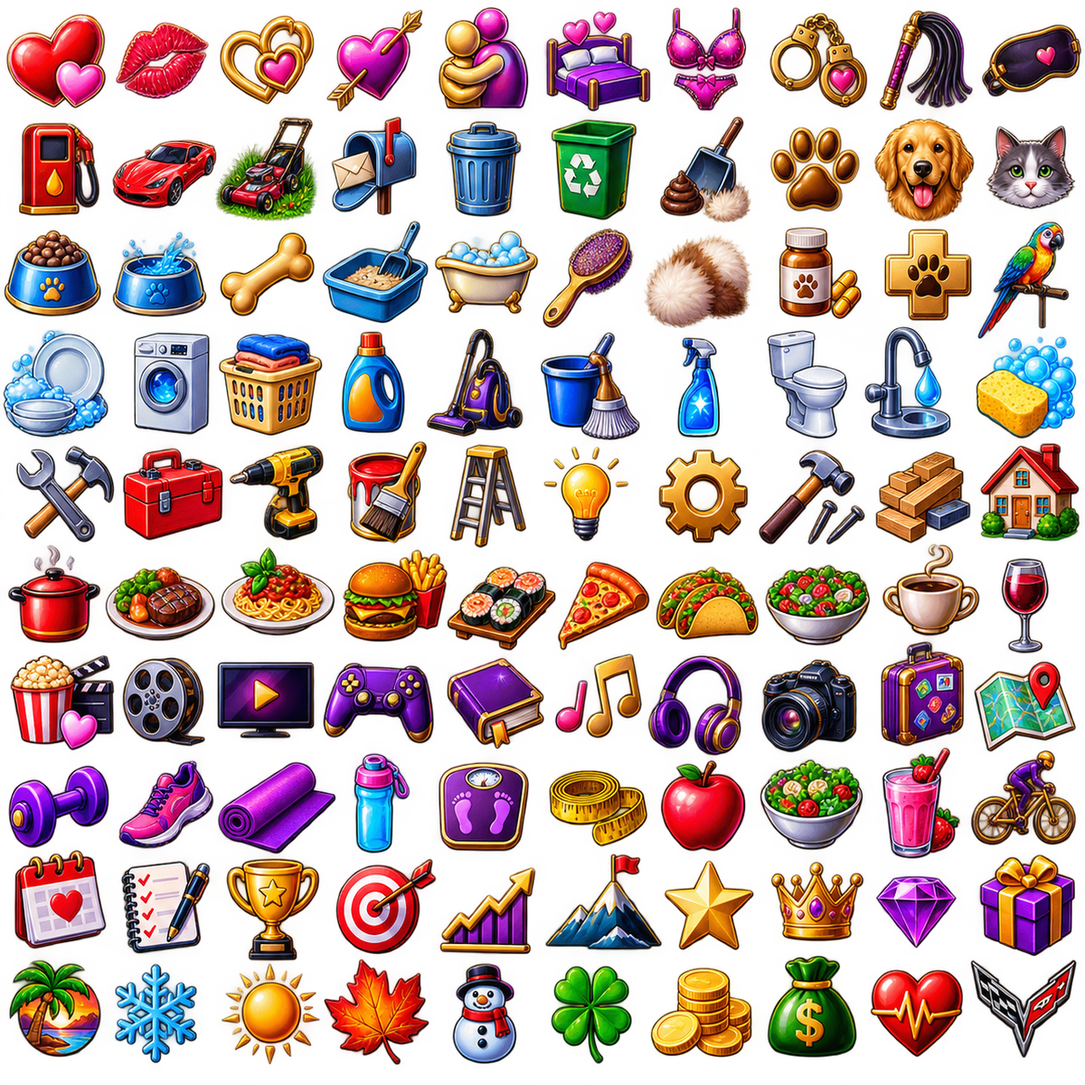
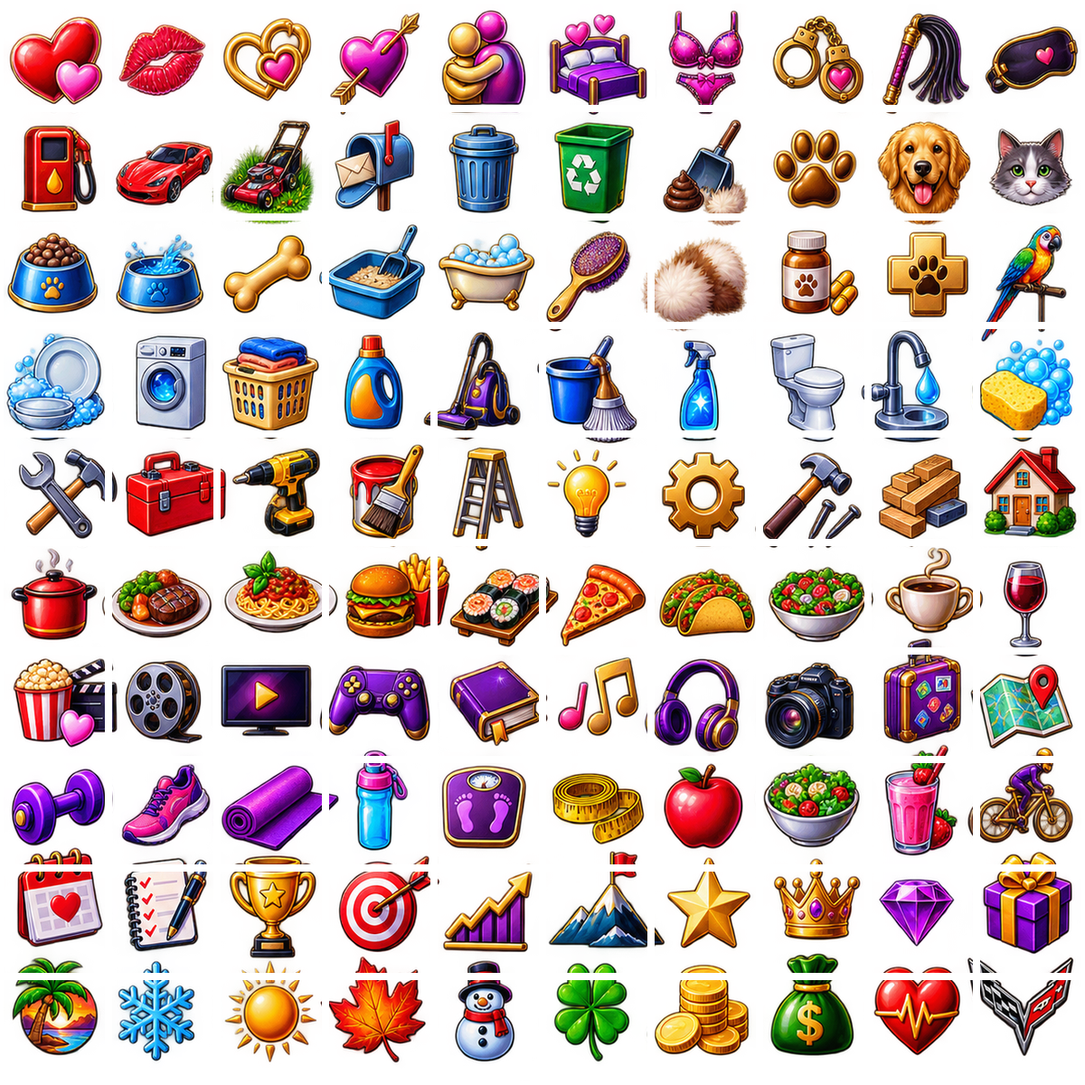
Add files via upload

diff --git a/index.html b/index.html
@@ -5,6 +5,15 @@
 .photoGallery{display:flex;gap:10px;flex-wrap:wrap;margin:10px 0}.proofImg{width:112px;height:112px;object-fit:cover;border-radius:10px;border:1px solid var(--line);background:#241a3b;cursor:zoom-in}.taskArt{height:34px;width:34px;object-fit:cover;border-radius:8px}.photoGallery img:active{transform:scale(1.04)}.modal{max-height:92vh;overflow-y:auto}.photoGallery img{max-width:100%}
 
 .atlas-grid{display:grid;grid-template-columns:repeat(10,minmax(0,1fr));gap:3px;width:100%;max-width:670px}.atlas-cell{position:relative;aspect-ratio:1;background:transparent;border:1px solid #74578b;border-radius:4px;padding:0;overflow:hidden}.atlas-cell:hover{border:2px solid #f5c77d;filter:brightness(1.13)}.atlas-cell.chosen{outline:3px solid #f5c77d;outline-offset:0;box-shadow:0 0 15px #f5c77d80}.atlas-icon{display:block;aspect-ratio:1;background-repeat:no-repeat;background-size:1000% 1000%;background-position:var(--ax) var(--ay);width:100%;height:100%}.atlas-preview{width:70px;height:70px;border-radius:12px;overflow:hidden;background:#34254b}.atlas-panel{margin:12px 0}.task.is-done{filter:grayscale(1);opacity:.52!important}.task.is-done .taskIcon{filter:grayscale(1)}.bonus-strip{border:1px solid #8d6b35;background:#33253b;border-radius:12px;padding:13px;margin:12px 0}.weight-progress{font-size:12px;color:var(--muted);margin-top:8px}.atlas-pick-modal .modal{width:min(800px,100%)}
+</style><style>
+.atlas-grid{gap:0!important;max-width:700px!important;border:1px solid #6c5187;border-radius:8px;overflow:hidden}
+.atlas-cell{border:1px solid #655079!important;border-radius:0!important;min-width:0!important;overflow:hidden!important;box-sizing:border-box!important}
+.atlas-icon{width:100%!important;height:100%!important;position:absolute!important;inset:0!important;aspect-ratio:auto!important;background-size:1000% 1000%!important}
+.atlas-cell.chosen{z-index:2;outline:3px solid #f5c77d!important;outline-offset:-3px!important}
+.icon-live-preview{width:62px;height:62px;border:1px solid #9d75ba;border-radius:10px;background:#302143;display:flex;align-items:center;justify-content:center;overflow:hidden;font-size:30px}
+.icon-live-preview .atlas-icon{position:relative!important;inset:auto!important;width:100%!important;height:100%!important}
+.goal-milestone{padding:10px;border:1px solid #5a4470;border-radius:10px;margin-top:9px}
+.back-nav{margin-bottom:12px}
 </style></head><body><div id="root"></div><script>
 'use strict';
 const KEY='ourquest-stage1-data-v1';const today=()=>localDate(new Date());const localDate=d=>[d.getFullYear(),String(d.getMonth()+1).padStart(2,'0'),String(d.getDate()).padStart(2,'0')].join('-');const uid=()=>Math.random().toString(36).slice(2,10)+Date.now().toString(36);const safe=s=>String(s??'').replace(/[&<>"']/g,c=>({'&':'&amp;','<':'&lt;','>':'&gt;','"':'&quot;',"'":'&#39;'}[c]));const num=x=>Number(x||0).toLocaleString();const seed=()=>({players:[{id:'matthew',name:'Matthew',icon:'🛡',xp:0,coins:0},{id:'beth',name:'Beth',icon:'✨',xp:0,coins:0}],current:'matthew',tasks:[{id:uid(),name:'Tidy the kitchen',emoji:'🧹',category:'Home',xp:25,difficulty:'Easy',repeat:true,frequency:'daily',maxPerPeriod:1,owner:'shared'},{id:uid(),name:'Take a walk',emoji:'🌿',category:'Wellness',xp:35,difficulty:'Normal',repeat:true,frequency:'daily',maxPerPeriod:1,owner:'shared'},{id:uid(),name:'Plan a date night',emoji:'💖',category:'Together',xp:60,difficulty:'Hard',repeat:false,frequency:'once',maxPerPeriod:1,owner:'shared'}],logs:[],quests:[],categories:[{name:'Home',emoji:'🏠',frequency:'daily'},{name:'Wellness',emoji:'🌿',frequency:'daily'},{name:'Together',emoji:'💖',frequency:'monthly'}],ledger:[],champions:[],achievements:[],rewards:[{id:uid(),name:'Choose our next movie',emoji:'🎬',price:60,provider:'either',description:'You pick what we watch.'},{id:uid(),name:'Coffee treat',emoji:'☕',price:100,provider:'either',description:'A special coffee run.'},{id:uid(),name:'Dinner at Olive Garden',emoji:'🍝',price:1000,provider:'matthew',description:'Dinner at Olive Garden, subject to provider approval and scheduling.'}],purchases:[],messages:[],goals:[],settings:{coinRate:10,xpCap:500,backdate:7,dailyBonusXP:50,dailyBonusCoins:25,weeklyBonusXP:125,monthlyBonusXP:400,reduceMotion:false},events:[]});let data;try{data=JSON.parse(localStorage.getItem(KEY))||seed()}catch{data=seed()}const save=()=>localStorage.setItem(KEY,JSON.stringify(data));function migrate(){data.settings??={coinRate:10,xpCap:500,backdate:7};data.categories??=[{name:'Home',emoji:'🏠',frequency:'daily'},{name:'Wellness',emoji:'🌿',frequency:'daily'},{name:'Together',emoji:'💖',frequency:'monthly'}];data.ledger??=[];data.champions??=[];data.achievements??=[];data.settings.dailyBonusXP??=50;data.settings.dailyBonusCoins??=25;data.settings.weeklyBonusXP??=125;data.settings.monthlyBonusXP??=400;data.tasks.forEach(t=>{t.frequency??=(t.repeat?'daily':'once');t.maxPerPeriod??=1});data.quests.forEach(q=>{q.maxPerDay??=1;q.completedCount??=(q.status==='approved'?1:0);q.awarded??=(q.status==='approved');q.history??=[]});data.purchases.forEach(p=>{if(p.status==='used')p.status='fulfilled';p.history??=[]});if(!data.rewards.some(r=>r.name==='Dinner at Olive Garden'))data.rewards.push({id:uid(),name:'Dinner at Olive Garden',emoji:'🍝',price:1000,provider:'matthew',description:'Dinner at Olive Garden, subject to provider approval and scheduling.'});}migrate();save();let page='home',filter='All',modal='',toastTimer;const me=()=>data.players.find(p=>p.id===data.current);const other=()=>data.players.find(p=>p.id!==data.current);const totalXp=p=>p.xp;const level=p=>Math.floor(Math.sqrt(p.xp/100))+1;const levelBase=n=>100*(n-1)**2;const levelNext=p=>levelBase(level(p)+1);const levelPercent=p=>Math.max(0,Math.min(100,100*(p.xp-levelBase(level(p)))/(levelNext(p)-levelBase(level(p)))));const event=(type,detail)=>data.events.unshift({id:uid(),type,detail,actor:me().name,at:new Date().toISOString()});const notify=s=>{document.querySelector('.toast')?.remove();let n=document.createElement('div');n.className='toast';n.textContent=s;document.body.appendChild(n);clearTimeout(toastTimer);toastTimer=setTimeout(()=>n.remove(),3000)};const isAdmin=()=>data.current==='matthew';
@@ -22,7 +31,7 @@ const dailyXP=(player,date)=>data.ledger.filter(t=>t.player===player&&t.kind==='
 function periodKey(date,kind){return datePeriod(date,kind)}
 function settleChampions(){let now=new Date();for(let offset=1;offset<=35;offset++){let d=new Date(now);d.setDate(d.getDate()-offset);let date=localDate(d);for(let kind of ['daily','weekly','monthly']){if(kind==='weekly'&&d.getDay()!==0)continue;if(kind==='monthly'&&new Date(d.getFullYear(),d.getMonth()+1,0).getDate()!==d.getDate())continue;let key=periodKey(date,kind);if(data.champions.some(c=>c.kind===kind&&c.key===key))continue;let from=kind==='daily'?date:kind==='weekly'?periodKey(date,'weekly'):date.slice(0,7)+'-01';let scores=data.players.map(p=>({id:p.id,xp:data.ledger.filter(t=>t.player===p.id&&t.kind==='xp'&&t.amount>0&&t.source!=='champion'&&t.at.slice(0,10)>=from&&t.at.slice(0,10)<=date).reduce((a,t)=>a+t.amount,0)}));let max=Math.max(...scores.map(x=>x.xp));let winners=max>0?scores.filter(x=>x.xp===max).map(x=>x.id):[];data.champions.push({id:uid(),kind,key,date,winners,scores});if(winners.length){let bonus=Number(data.settings[kind+'BonusXP']||0),coins=kind==='daily'?Number(data.settings.dailyBonusCoins||0):0;winners.forEach(id=>{if(bonus)credit(id,bonus,'champion',kind+' winner '+key);if(coins){data.players.find(p=>p.id===id).coins+=coins;transaction(id,'gold',coins,'champion',kind+' winner '+key)}})}}}save()}
 function award(xp){credit(data.current,xp,'task','Task completion')}
-function nav(to){page=to;filter='All';render();window.scrollTo(0,0)}function taskVisible(t){return t.owner==='shared'||t.owner===data.current}function render(){const titles={home:'Your Adventure',tasks:'Quest Journal',quests:'Quest Board',rewards:'Treasure Shop',messages:'Messages',stats:'Adventure Chronicle',goals:'Long-Term Goals',settings:'Settings & Admin',approvals:'Approval Inbox',more:'More Adventures',requests:'XP Requests',photos:'Photo Library',atlas:'Icon Atlas Library'};const tabs=[['home','⌂','Home'],['tasks','✓','Tasks'],['quests','⚔','Quests'],['rewards','♛','Rewards'],['messages','✉','Messages'],['stats','◫','Stats'],['goals','◈','Goals'],['approvals','✓','Approvals'],['settings','⚙','Settings']];document.getElementById('root').innerHTML=`<div class="app"><aside class="side"><div class="brand"><img src="assets/our-quest-icon.png"><div><b>Our Quest</b><small>A SHARED ADVENTURE</small></div></div><nav class="nav">${tabs.map(t=>`<button class="${page===t[0]?'active':''}" onclick="nav('${t[0]}')"><span>${t[1]}</span>${t[2]}</button>`).join('')}</nav><div class="sidefoot">✦ V1.3.0 local preview<br>Local demonstration mode<br><br>Data is saved on this device only. Cloud syncing is not connected.</div></aside><main><header class="top"><div><div class="eyebrow">✧ OUR QUEST · ${safe(new Date().toLocaleDateString('en-US',{month:'long',day:'numeric',year:'numeric'}))}</div><h1>${titles[page]||'Our Quest'}</h1></div><div class="topright"><span class="chip">🪙 ${num(me().coins)}</span><select class="selectSmall" aria-label="Active demo profile" onchange="switchPlayer(this.value)">${data.players.map(p=>`<option value="${p.id}" ${p.id===data.current?'selected':''}>${p.icon} ${safe(p.name)}</option>`).join('')}</select></div></header><div class="notice">Preview mode: Switching players simulates two accounts on this browser. It is not secure authentication or cross-phone synchronization.</div>${({home:homeView,tasks:tasksView,quests:questsView,rewards:rewardsView,messages:messagesView,stats:statsView,goals:goalsView,settings:settingsView,approvals:approvalsView,more:moreView,requests:requestXPView,photos:photosView,atlas:atlasView}[page]||homeView)()}</main><nav class="bottom">${[['home','⌂','Home'],['tasks','✓','Tasks'],['quests','⚔','Quests'],['rewards','♛','Shop'],['more','☷','More']].map(t=>`<button class="${page===t[0]?'active':''}" onclick="nav('${t[0]}')"><span>${t[1]}</span>${t[2]}</button>`).join('')}</nav></div>${modal?modalView():''}`}
+function nav(to){page=to;filter='All';render();window.scrollTo(0,0)}function taskVisible(t){return t.owner==='shared'||t.owner===data.current}function render(){const titles={home:'Your Adventure',tasks:'Quest Journal',quests:'Quest Board',rewards:'Treasure Shop',messages:'Messages',stats:'Adventure Chronicle',goals:'Long-Term Goals',settings:'Settings & Admin',approvals:'Approval Inbox',more:'More Adventures',requests:'XP Requests',photos:'Photo Library',atlas:'Icon Atlas Library'};const tabs=[['home','⌂','Home'],['tasks','✓','Tasks'],['quests','⚔','Quests'],['rewards','♛','Rewards'],['messages','✉','Messages'],['stats','◫','Stats'],['goals','◈','Goals'],['approvals','✓','Approvals'],['settings','⚙','Settings']];document.getElementById('root').innerHTML=`<div class="app"><aside class="side"><div class="brand"><img src="assets/our-quest-icon.png"><div><b>Our Quest</b><small>A SHARED ADVENTURE</small></div></div><nav class="nav">${tabs.map(t=>`<button class="${page===t[0]?'active':''}" onclick="nav('${t[0]}')"><span>${t[1]}</span>${t[2]}</button>`).join('')}</nav><div class="sidefoot">✦ V1.4.0 local preview<br>Local demonstration mode<br><br>Data is saved on this device only. Cloud syncing is not connected.</div></aside><main><header class="top"><div><div class="eyebrow">✧ OUR QUEST · ${safe(new Date().toLocaleDateString('en-US',{month:'long',day:'numeric',year:'numeric'}))}</div><h1>${titles[page]||'Our Quest'}</h1></div><div class="topright"><span class="chip">🪙 ${num(me().coins)}</span><select class="selectSmall" aria-label="Active demo profile" onchange="switchPlayer(this.value)">${data.players.map(p=>`<option value="${p.id}" ${p.id===data.current?'selected':''}>${p.icon} ${safe(p.name)}</option>`).join('')}</select></div></header><div class="notice">Preview mode: Switching players simulates two accounts on this browser. It is not secure authentication or cross-phone synchronization.</div>${({home:homeView,tasks:tasksView,quests:questsView,rewards:rewardsView,messages:messagesView,stats:statsView,goals:goalsView,settings:settingsView,approvals:approvalsView,more:moreView,requests:requestXPView,photos:photosView,atlas:atlasView}[page]||homeView)()}</main><nav class="bottom">${[['home','⌂','Home'],['tasks','✓','Tasks'],['quests','⚔','Quests'],['rewards','♛','Shop'],['more','☷','More']].map(t=>`<button class="${page===t[0]?'active':''}" onclick="nav('${t[0]}')"><span>${t[1]}</span>${t[2]}</button>`).join('')}</nav></div>${modal?modalView():''}`}
 function homeView(){const p=me(),logs=data.logs.filter(l=>l.player===p.id&&l.date===today()&&!l.undone);return `<div class="hero"><div class="card heroMain"><div class="eyebrow">WELCOME BACK, ${safe(p.name.toUpperCase())}</div><div class="heroTitle">Level ${level(p)} ${rankName(level(p))}</div><div class="heroSub">Every little victory is part of your story. Your next chapter starts today.</div><div class="row between" style="margin-top:20px"><span class="tiny">✦ ${num(p.xp)} XP</span><span class="tiny">${num(levelNext(p)-p.xp)} to next level</span></div><div class="bar"><i style="width:${levelPercent(p)}%"></i></div><button class="btn" style="margin-top:14px" onclick="nav('tasks')">✦ Log an Activity</button></div><div class="heroAside"><div class="card"><div class="statLabel">Today's completions</div><div class="stat">${logs.length}</div><span class="green tiny">✦ +${num(logs.reduce((s,l)=>s+l.xp,0))} XP today</span></div><div class="card"><div class="statLabel">Gold coins</div><div class="stat">${num(p.coins)}</div><span class="muted tiny">Spend in Treasure Shop</span></div><div class="card"><div class="statLabel">Active quests</div><div class="stat">${data.quests.filter(q=>q.to===p.id&&q.status==='accepted').length}</div><span class="muted tiny">Adventures awaiting you</span></div><div class="card"><div class="statLabel">Partner's level</div><div class="stat">${level(other())}</div><span class="muted tiny">${safe(other().name)} · ${num(other().xp)} XP</span></div></div></div><div class="grid two"><section class="card"><div class="row between"><h2>✧ Quick Log</h2><button class="btn2 tiny" onclick="nav('tasks')">All Tasks →</button></div>${data.tasks.filter(taskVisible).slice(0,5).map(taskLine).join('')||'<div class="empty">Create your first task.</div>'}</section><section class="card"><div class="row between"><h2>⚔ Your Quest Board</h2><button class="btn2 tiny" onclick="nav('quests')">View Quests →</button></div>${data.quests.filter(q=>q.to===p.id&&q.status!=='approved'&&q.status!=='declined').slice(0,4).map(questLine).join('')||'<div class="empty">No quests yet. Send your partner an adventure!</div>'}<hr class="divider"><h3>✉ Latest Message</h3><p class="muted tiny">${data.messages.length?safe(data.messages.at(-1).text):'Your shared story is waiting to be written.'}</p></section></div><section class="section card"><div class="row between"><h2>Recent Achievements</h2><button class="btn2 tiny" onclick="nav('stats')">View History →</button></div><div class="grid">${[['🌟','First Steps',p.xp>0],['⚔','Getting Started',data.logs.filter(l=>l.player===p.id).length>=5],['👑','Rising Hero',level(p)>=3]].map(([i,n,ok])=>`<div class="card" style="text-align:center;opacity:${ok?1:.45}"><div style="font-size:31px">${i}</div><b>${n}</b><div class="tiny muted">${ok?'Unlocked':'Locked'}</div></div>`).join('')}</div></section>`}
 function taskLine(t){let count=countTask(t),max=maxTask(t),done=count>=max,available=taskAvailable(t);return `<div class="task" style="opacity:${done||!available?'.55':'1'}"><div class="taskIcon">${t.emoji?.startsWith('data:')?`<img src="${t.emoji}">`:safe(t.emoji||'✨')}</div><div style="flex:1;min-width:0"><div class="taskName">${safe(t.name)}</div><div class="tiny muted">${safe(t.category)} · ${safe(t.frequency||'daily')} · <span class="gold">+${t.xp} XP</span> · ${count}/${max} completed</div>${done?'<span class="tag">✓ Complete until next reset</span>':!available?'<span class="tag">Outside availability window</span>':''}</div><button class="iconbtn" onclick="logTask('${t.id}')" ${done||!available?'disabled':''}>${done?'✓':'+ XP'}</button></div>`}
 function tasksView(){let cats=['All',...new Set(data.tasks.filter(taskVisible).map(t=>t.category))],list=data.tasks.filter(t=>taskVisible(t)&&(filter==='All'||t.category===filter));return `<div class="row between wrap"><p class="muted">Recurring activities reset by schedule. Completed tasks lock until their next period.</p>${isAdmin()?`<div class="row wrap"><button class="btn2" onclick="openModal('category')">⚙ Categories</button><button class="btn" onclick="openModal('task')">＋ Create Task</button></div>`:''}</div><div class="tabs">${cats.map(c=>`<button class="${filter===c?'active':''}" onclick="setFilter('${safe(c)}')">${safe(c)}</button>`).join('')}</div><section class="card">${list.map(t=>`<div class="row between" style="gap:5px"><div style="flex:1;min-width:0">${taskLine(t)}</div>${isAdmin()?`<button class="iconbtn" title="Edit task" onclick="openModal('editTask','${t.id}')">✎</button>`:''}</div>`).join('')||'<div class="empty">No tasks in this category.</div>'}</section>${isAdmin()?`<div class="card section"><h2>Bulk Task Tools</h2><button class="btn2" onclick="duplicateTaskPrompt()">Duplicate a task</button> <button class="btn2" onclick="bulkSchedule()">Change category schedule</button></div>`:''}`}
@@ -162,7 +171,7 @@ function claimDailyLogin(){let key=data.current+':'+today();if(data.loginClaims.
 const v13HomeView=homeView;
 homeView=function(){let claimed=data.loginClaims.includes(data.current+':'+today());return `<div class="bonus-strip row between wrap"><div><b>✦ Daily Login Reward</b><div class="tiny muted">${claimed?'Claimed today. Return tomorrow for another bonus.':`Claim +${data.settings.loginXP} XP and +${data.settings.loginCoins} gold today.`}</div></div><button class="btn" onclick="claimDailyLogin()" ${claimed?'disabled':''}>${claimed?'✓ Claimed':'Claim Reward'}</button></div>`+v13HomeView()};
 const v13SettingsView=settingsView;
-settingsView=function(){let out=v13SettingsView().replaceAll('About V1.2.0','About V1.3.0');if(isAdmin())out+=`<div class="card section"><h2>Daily Login Reward Settings</h2><div class="formGrid"><div class="field"><label>Daily login XP</label><input id="loginXP" type="number" min="0" max="10000" value="${data.settings.loginXP}"></div><div class="field"><label>Daily login gold</label><input id="loginCoins" type="number" min="0" max="10000" value="${data.settings.loginCoins}"></div></div><button class="btn" onclick="saveLoginSettings()">Save Login Rewards</button></div>`;return out};
+settingsView=function(){let out=v13SettingsView().replaceAll('About V1.2.0','About V1.4.0');if(isAdmin())out+=`<div class="card section"><h2>Daily Login Reward Settings</h2><div class="formGrid"><div class="field"><label>Daily login XP</label><input id="loginXP" type="number" min="0" max="10000" value="${data.settings.loginXP}"></div><div class="field"><label>Daily login gold</label><input id="loginCoins" type="number" min="0" max="10000" value="${data.settings.loginCoins}"></div></div><button class="btn" onclick="saveLoginSettings()">Save Login Rewards</button></div>`;return out};
 function saveLoginSettings(){if(!isAdmin())return;let xp=Number(document.getElementById('loginXP').value),gold=Number(document.getElementById('loginCoins').value);if(!Number.isInteger(xp)||!Number.isInteger(gold)||xp<0||gold<0||xp>10000||gold>10000)return notify('Enter valid bonus values');data.settings.loginXP=xp;data.settings.loginCoins=gold;save();render();notify('Daily login settings saved')}
 // Weight-based goals are optional and explicitly controlled by the goal owner.
 const v13ModalView=modalView;
@@ -177,6 +186,68 @@ function updateWeight(id){let g=data.goals.find(g=>g.id===id);if(!g||g.goalType!
 const v13TasksView=tasksView;
 tasksView=function(){let out=v13TasksView();return isAdmin()?out.replace('⚙ Categories</button>',`⚙ Categories</button><button class="btn2" onclick="nav('atlas')">▦ Icon Atlas</button>`):out};
 loadAtlasPages();save();
+
+/* Our Quest v1.4 enhancement: atlas pages, goals, bonuses, and single-use coupons. */
+const V14_PAGES=[{id:'everyday',name:'Everyday Adventures',src:'assets/everyday-adventures-atlas.png',builtin:true},{id:'more-adventures',name:'More Adventures',src:'assets/more-adventures-atlas.png',builtin:true},{id:'life-adventures',name:'Life & Adventures',src:'assets/life-adventures-atlas.png',builtin:true}];
+for(const p of V14_PAGES){const found=data.atlasPages.find(x=>x.id===p.id);if(found)Object.assign(found,p);else data.atlasPages.push({...p});atlasSources[p.id]=p.src}
+// Initialize independent goals once. Never overwrite an existing player's recorded progress.
+function ensureV14Goals(){for(const [owner,start,target,reward] of [['beth',250,159,'Matthew buys Beth a C7 or C8 Corvette'],['matthew',365,190,'Reach my goal weight']]){
+ if(!data.goals.some(g=>g.goalType==='weight'&&g.owner===owner))data.goals.push({id:uid(),title:(owner==='beth'?'Beth':'Matthew')+' • Weight Journey',description:'Personal weight milestone tracker',goalType:'weight',startWeight:start,currentWeight:start,targetWeight:target,milestoneReward:reward,owner,weightHistory:[{at:new Date().toISOString(),weight:start}],milestones:[{id:uid(),weight:target,reward,completed:false}]});
+ else for(const g of data.goals.filter(g=>g.goalType==='weight'&&g.owner===owner)){g.milestones??=[{id:uid(),weight:g.targetWeight,reward:g.milestoneReward||reward,completed:false}];}
+ }}ensureV14Goals();
+const v14AtlasGrid=atlasGrid;
+atlasGrid=function(id,selectable=true){return v14AtlasGrid(id,selectable).replaceAll('background-size:1000%','background-size:1000%')};
+const v14ModalView=modalView;
+modalView=function(){let [type,id]=modal.split('|'),out=v14ModalView();if(type==='task'||type==='editTask'){
+ out=out.replace(/<div class="field"><label>Allowed completions<\/label>[\s\S]*?<div class="field"><label>Earliest hour/,`<div class="field"><label>Recurrence</label><select name="frequency" onchange="updateTaskScheduleDescription()">${[['daily','Daily'],['weekly','Weekly'],['monthly','Monthly'],['annual','Annual']].map(([v,l])=>`<option value="${v}" ${(data.tasks.find(t=>t.id===id)?.frequency||'daily')===v?'selected':''}>${l}</option>`).join('')}</select><div id="scheduleHelp" class="tiny muted">Calendar-based resets: Sunday to Saturday weeks, calendar months and calendar years.</div></div><div class="field"><label>Maximum completions per period</label><input name="maxPerPeriod" type="number" min="1" max="100" value="${data.tasks.find(t=>t.id===id)?.maxPerPeriod||1}" oninput="updateTaskScheduleDescription()"></div><div class="field"><label>Consecutive-day bonus (%)</label><input name="streakBonusPercent" type="number" min="0" max="200" step="1" value="${data.tasks.find(t=>t.id===id)?.streakBonusPercent||0}"><div class="tiny muted">For daily tasks: bonus XP on each completion when also completed yesterday.</div></div><div class="field"><label>Same-day repeat bonus (%)</label><input name="repeatBonusPercent" type="number" min="0" max="200" step="1" value="${data.tasks.find(t=>t.id===id)?.repeatBonusPercent||0}"><div class="tiny muted">Bonus XP for the second and subsequent completions on the same day.</div></div><div class="field"><label>Earliest hour`);
+ out=out.replace(/<div id="atlasChoicePreview"[^>]*>[\s\S]*?<\/div>/,`<div id="atlasChoicePreview" class="tiny muted" style="margin-top:5px">${pendingAtlas?'Selected atlas icon: page '+(atlasPageIndex(pendingAtlas.page)+1)+', cell '+(pendingAtlas.cell+1):'No atlas icon selected'}</div><div class="row" style="margin-top:8px"><div id="taskIconLivePreview" class="icon-live-preview">${pendingAtlas?atlasIconHtml(pendingAtlas):safe(data.tasks.find(t=>t.id===id)?.emoji||'✨')}</div><span class="tiny muted">Live icon preview</span></div>`);
+ }if(type==='reward')out=out.replace('<div class="field"><label>Provider</label>',`<div class="field"><label><input type="checkbox" name="oneTime" style="width:auto"/> One purchase per player (lifetime)</label><div class="tiny muted">Once purchased, this reward can never be purchased again by that player, even after redemption.</div></div><div class="field"><label>Provider</label>`);
+ return out};
+function updateTaskScheduleDescription(){let f=document.querySelector('.modal select[name=frequency]')?.value,n=Number(document.querySelector('.modal input[name=maxPerPeriod]')?.value||1),help=document.getElementById('scheduleHelp');if(help)help.textContent=`Available ${n} time${n===1?'':'s'} per ${f==='daily'?'calendar day':f==='weekly'?'Sunday–Saturday week':f==='monthly'?'calendar month':'calendar year'}. Resets at the next period boundary.`}
+const v14SelectAtlasIcon=selectAtlasIcon;
+selectAtlasIcon=function(id,cell){v14SelectAtlasIcon(id,cell);let p=document.getElementById('taskIconLivePreview');if(p)p.innerHTML=atlasIconHtml({page:id,cell});};
+const v14SubmitModal=submitModal;
+submitModal=function(e,type,id){if(['task','editTask','reward'].includes(type)){
+ let f=new FormData(e.target),taskName=String(f.get('name')||''),beforeTaskIds=new Set(data.tasks.map(t=>t.id));
+ let freq=f.get('frequency'),max=Number(f.get('maxPerPeriod')||1),streak=Number(f.get('streakBonusPercent')||0),repeat=Number(f.get('repeatBonusPercent')||0);
+ if(['task','editTask'].includes(type)&&(!['daily','weekly','monthly','annual'].includes(freq)||!Number.isInteger(max)||max<1||max>100||![streak,repeat].every(v=>Number.isFinite(v)&&v>=0&&v<=200))){e.preventDefault();return notify('Invalid task schedule or bonus settings')}
+ v14SubmitModal(e,type,id);
+ if(['task','editTask'].includes(type)){let t=type==='editTask'?data.tasks.find(x=>x.id===id):data.tasks.find(x=>!beforeTaskIds.has(x.id)&&x.name===taskName);if(t){t.streakBonusPercent=streak;t.repeatBonusPercent=repeat;save();render()}}
+ if(type==='reward'&&f.has('oneTime')){let r=data.rewards.at(-1);if(r){r.oneTime=true;save();render()}}
+ return;
+ }v14SubmitModal(e,type,id)};
+const v14LogTask=logTask;
+logTask=function(id){let t=data.tasks.find(x=>x.id===id);if(!t)return;let oldCount=countTask(t),oldLogs=new Set(data.logs.map(x=>x.id));let yesterday=new Date();yesterday.setDate(yesterday.getDate()-1);let priorDay=localDate(yesterday);let consecutive=data.logs.some(l=>l.taskId===id&&l.player===data.current&&l.date===priorDay&&!l.undone);let repeatCount=data.logs.filter(l=>l.taskId===id&&l.player===data.current&&l.date===today()&&!l.undone).length;
+ v14LogTask(id);
+ let log=data.logs.find(l=>!oldLogs.has(l.id)&&l.taskId===id&&l.player===data.current);if(!log)return;
+ let streakBonus=t.frequency==='daily'&&consecutive?Math.round(t.xp*Number(t.streakBonusPercent||0)/100):0;
+ let repeatBonus=repeatCount>0?Math.round(t.xp*Number(t.repeatBonusPercent||0)/100):0;
+ let total=streakBonus+repeatBonus;
+ if(total){log.bonusXP=total;credit(data.current,total,'task bonus',t.name+` • streak +${streakBonus}, repeat +${repeatBonus}`);save();render();notify(`+${t.xp} XP plus ${total} bonus XP!`)}
+};
+const v14UndoLog=undoLog;
+undoLog=function(id){let l=data.logs.find(x=>x.id===id),bonus=l?.bonusXP||0,wasUndone=l?.undone;v14UndoLog(id);if(l&&!wasUndone&&l.undone&&bonus){debitXP(l.player,bonus,'undo bonus');save();render()}};
+const v14BuyReward=buyReward;
+buyReward=function(id){let r=data.rewards.find(r=>r.id===id);if(r?.oneTime&&data.purchases.some(p=>p.rewardId===id&&p.buyer===data.current))return notify('This reward can only be purchased once per player');v14BuyReward(id)};
+const v14RewardsView=rewardsView;
+rewardsView=function(){let out=v14RewardsView();for(const r of data.rewards.filter(r=>r.oneTime)){
+ let escaped=r.id.replace(/[.*+?^${}()|[\]\\]/g,'\\$&');let regex=new RegExp(`onclick="buyReward\\('${escaped}'\\)"([^>]*)>`,'g');let purchased=data.purchases.some(p=>p.rewardId===r.id&&p.buyer===data.current);out=out.replace(regex,`onclick="buyReward('${r.id}')" ${purchased?'disabled title="Already purchased"':''}$1>`);
+ }return out};
+// Weight milestones are configured by the goal owner, while progress remains editable by that owner.
+const v14GoalsView=goalsView;
+goalsView=function(){let out=v14GoalsView();for(const g of data.goals.filter(g=>g.goalType==='weight'&&(g.owner===data.current||g.owner==='shared'))){
+ let milestoneList=(g.milestones||[]).slice().sort((a,b)=>b.weight-a.weight).map(m=>`<div class="goal-milestone"><div class="row between"><span>${safe(m.weight)} lb · ${safe(m.reward)}</span><span class="tag">${g.currentWeight<=m.weight?'Reached':'Upcoming'}</span></div>${(g.owner===data.current||isAdmin())?`<button class="btn2 tiny" onclick="editWeightMilestone('${g.id}','${m.id}')">Edit</button>`:''}</div>`).join('');
+ let marker=`<div class="card section"><h2>🏆 ${safe(g.owner==='beth'?'Beth':'Matthew')} • Weight Milestones</h2>${milestoneList||'<p class="muted">No milestones yet.</p>'}<button class="btn2" onclick="addWeightMilestone('${g.id}')">＋ Add milestone & reward</button></div>`;
+ out+=marker;
+ }return out};
+function addWeightMilestone(id){let g=data.goals.find(x=>x.id===id);if(!g||(g.owner!==data.current&&!isAdmin()))return notify('Not permitted to edit this goal');let v=prompt('Milestone weight in pounds (e.g. 225)');if(v===null)return;let w=Number(v);if(!Number.isFinite(w)||w<1||w>g.startWeight)return notify('Invalid milestone weight');let reward=prompt('Reward for reaching '+w+' lb','');if(reward===null)return;g.milestones??=[];g.milestones.push({id:uid(),weight:w,reward:reward.trim(),completed:false});save();render()}
+function editWeightMilestone(id,mid){let g=data.goals.find(x=>x.id===id),m=g?.milestones?.find(x=>x.id===mid);if(!m||(g.owner!==data.current&&!isAdmin()))return;let weight=prompt('Milestone weight',m.weight);if(weight===null)return;let w=Number(weight);if(!Number.isFinite(w)||w<1||w>g.startWeight)return notify('Invalid weight');let reward=prompt('Milestone reward',m.reward);if(reward===null)return;m.weight=w;m.reward=reward.trim();save();render()}
+// Make version visible and add a consistent way back to the overview on all inner screens.
+const v14Render=render;
+render=function(){v14Render();if(page!=='home'){let main=document.querySelector('main'),header=main?.querySelector('.top');if(main&&header)header.insertAdjacentHTML('afterend',`<div class="back-nav"><button class="btn2 tiny" onclick="nav('home')">← Back to Overview</button></div>`)}}
+const v14SettingsView=settingsView;
+settingsView=function(){return v14SettingsView().replaceAll('V1.3.0','V1.4.0')+`<div class="card section"><h2>What's New • V1.4.0</h2><p class="muted tiny">Three built-in 100-icon atlas sheets, improved icon preview, daily/weekly/monthly/annual task frequency, consecutive-day and repeat bonuses, separate weight goals and milestones, one-time coupons and more Back buttons.</p></div>`};
+save();
 
 settleChampions();if('serviceWorker'in navigator&&location.protocol.startsWith('http'))navigator.serviceWorker.register('./sw.js').catch(()=>{});render();
 </script></body></html>

diff --git a/sw.js b/sw.js
@@ -1,4 +1,4 @@
-const CACHE='our-quest-v1-3';
-self.addEventListener('install',event=>event.waitUntil(caches.open(CACHE).then(c=>c.addAll(['./','./index.html','./manifest.webmanifest','./assets/our-quest-icon.png','./assets/everyday-adventures-atlas.png'])).then(()=>self.skipWaiting())));
+const CACHE='our-quest-v1-4';
+self.addEventListener('install',event=>event.waitUntil(caches.open(CACHE).then(c=>c.addAll(['./','./index.html','./manifest.webmanifest','./assets/our-quest-icon.png','./assets/everyday-adventures-atlas.png','./assets/more-adventures-atlas.png','./assets/life-adventures-atlas.png'])).then(()=>self.skipWaiting())));
 self.addEventListener('activate',event=>event.waitUntil(Promise.all([caches.keys().then(keys=>Promise.all(keys.filter(k=>k.startsWith('our-quest-')&&k!==CACHE).map(k=>caches.delete(k)))),self.clients.claim()])));
 self.addEventListener('fetch',event=>{if(event.request.method==='GET'&&new URL(event.request.url).origin===self.location.origin)event.respondWith(fetch(event.request).then(response=>{const copy=response.clone();caches.open(CACHE).then(c=>c.put(event.request,copy));return response}).catch(()=>caches.match(event.request)))});

diff --git a/README.md b/README.md
@@ -1,27 +1,14 @@
-# Our Quest V1.3.0 — Local Prototype
+# Our Quest V1.4.0 — Local Interactive Prototype
 
-## Start
-Unzip this folder and open `index.html` in a modern browser. For the installable PWA and reliable IndexedDB support, deploy the complete folder to an HTTPS site (for example GitHub Pages). Do not upload only index.html: the assets, manifest and service worker must accompany it.
+Open `index.html` to test. Keep this folder together when hosting. This build still uses local browser storage and simulated profile switching, not Supabase or secure accounts.
 
-## New in V1.3
-- **Icon Atlas Library:** The provided `Everyday Adventures` 10 × 10 PNG contains 100 icons. Matthew can open Tasks → Create/Edit Task → Choose from Icon Atlas, click any grid cell and save. Tasks reference the page and cell without creating individual icon files.
-- **Upload more icon pages:** Open Icon Atlas Library and upload square 10 × 10 image sheets. The app resizes and stores uploaded sheets locally in IndexedDB. You can rename pages and delete unused pages. Atlas pages referenced by tasks cannot be deleted.
-- **Task schedules:** Task editor includes 1, 2, 3 or 4 times/day; 1 or 2 times/week; once/month; once/3 months; once/6 months; once/year and one-time. The app uses calendar periods (Sunday–Saturday weeks, calendar months, calendar quarters and half-years). Completed tasks grey out when their limit is reached and reactivate in the next period. Task descriptions appear on cards.
-- **Daily login bonuses:** A claimable daily XP and gold reward appears on the Overview. The admin can change the values in Settings. Each demo profile can claim once per local calendar day.
-- **Weight milestone goals:** Create Goal → Weight goal; enter starting weight, target and a custom milestone reward. Update weight to see the progress bar and history. This is optional personal data, stored locally in this prototype.
-- **Quest change comments:** Requesting changes to a submitted quest prompts for a written explanation.
-- **Version:** Visible V1.3.0.
+## Changes
+- Three bundled 10 × 10 atlas sheets with 300 selectable icons; icon preview while editing.
+- Task frequency selector limited to Daily, Weekly, Monthly, Annual, with separate completion count. Calendar period resets retained.
+- Admin-configurable consecutive-day XP percentage and same-day repeat XP percentage, awarded with transaction ledger entries.
+- Individual weight goals seeded once: Beth 250 → 159 lb, Matthew 365 → 190 lb. Beth final milestone: Matthew buys a C7 or C8 Corvette. Owners can add/edit milestone rewards.
+- Admin can mark newly created coupons as one purchase per player.
+- Back to Overview navigation on internal screens and version 1.4.0 displayed.
 
-## What remains from V1.2
-Quests with proof photos and sender approval, player XP requests with questions/counteroffers, Recent Partner Activity, messages and photo attachments, task/coupon artwork, achievements, champion bonuses, coupon tracking, admin-only task editing and XP/gold ledger.
-
-## Important limitations
-- This is still a **single-browser local prototype**. Matthew and Beth are simulated profiles; switching is not secure authentication. No live phone-to-phone syncing, Supabase database or private cloud photo storage exists yet.
-- Uploaded atlas pages live in **IndexedDB** on the same browser and origin. The JSON export does **not** include these uploaded atlas images, so keep original source PNGs separately. Replacing the hosting origin or clearing browser storage may lose them.
-- Photos from prior versions remain in browser localStorage, which has limited capacity.
-- A weight-goal milestone reward is a displayed goal description, **not** an automatically purchased or fulfilled prize.
-- Daily login bonuses are claimed manually, not automatically delivered by a cloud scheduler.
-- No end-to-end browser visual test was possible in this environment. JavaScript syntax and deterministic scheduling/atlas/login smoke checks passed.
-
-## Updating
-**Export a JSON backup from V1.2 before updating.** Keep the same hosted URL/origin to preserve the existing `ourquest-stage1-data-v1` data key. Keep your uploaded atlas PNGs separately. Deploy all files in the package and refresh the browser. The app may need a reload to replace cached PWA files.
+## Migration and limitations
+Export a JSON backup before updating. Keep the same site origin to retain local storage. New weight goals only seed when a player does not already have a weight goal. Previously created tasks retain legacy schedule types until edited. Imported image atlases are stored separately in IndexedDB and are not included in JSON backup. XP bonuses apply to new task completions only. A browser visual test is recommended. This is not yet a secure, multi-device production release.
